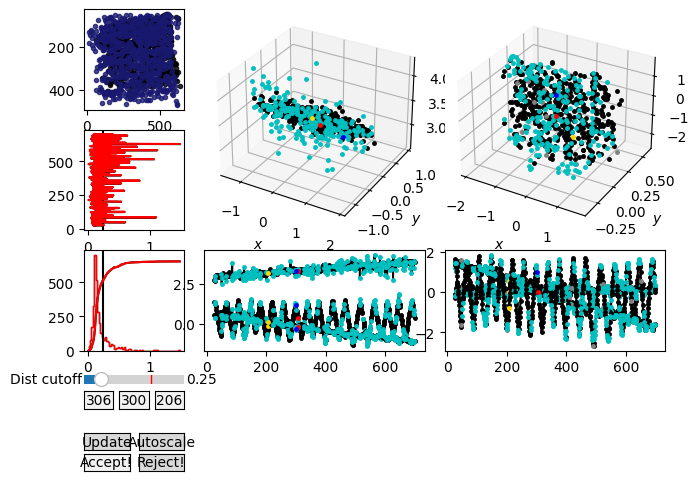
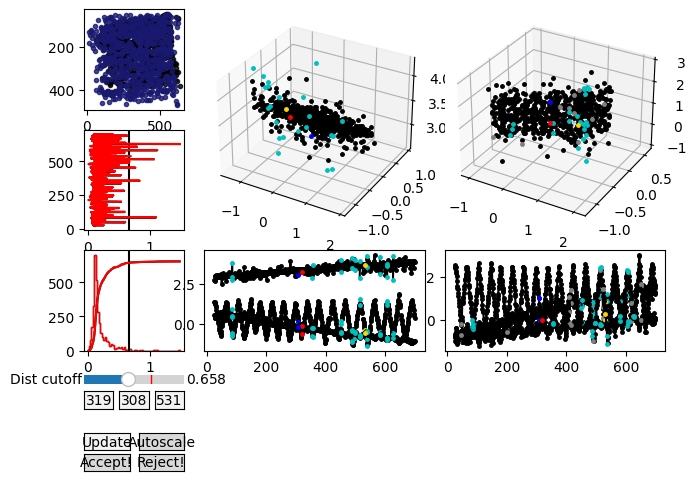
small changes

diff --git a/litledlights/ledstrip.py b/litledlights/ledstrip.py
@@ -12,7 +12,7 @@ try:
     # this verbose manner
     parentclasses.append(neopixel.NeoPixel)
 except:
-    print("ledstrip: imports failed.. set connect_ledlights=False")
+    print("ledstrip: imports failed.. setting connect_ledlights=False")
     config.connect_ledlights = False
 
 
@@ -75,7 +75,8 @@ class ledstrip(*parentclasses):
             
             
     def clear(self):
-        self.fill( (0,0,0) )
+        if self.connect_ledlights:
+            self.fill( (0,0,0) )
         
     def set_multiple(self,keys,values):
         for i,(key,value) in enumerate(zip(keys,values)):

diff --git a/litledlights/utils.py b/litledlights/utils.py
@@ -7,7 +7,7 @@ try:
     import neopixel
     import board
 except:
-    print("utils: imports failed.. set connect_ledlights=False")
+    print("utils: imports failed.. setting connect_ledlights=False")
     config.connect_ledlights = False
 
 def clear(strip: ledstrip.ledstrip=None):
